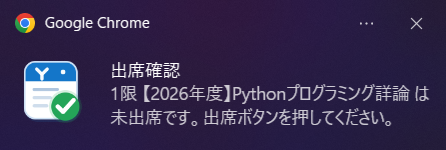
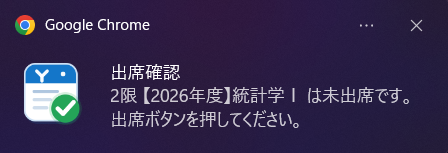
docs: update screenshots in README

diff --git a/README.md b/README.md
@@ -8,17 +8,17 @@
 
 ## スクリーンショット
 
-### 設定画面
-
-![設定画面](docs/images/options-settings.png)
-
-設定画面では、対象サイトの確認、時間割JSONの保存・削除、通知スケジュールの再作成・削除、ログの確認・削除ができます。
-
 ### Popup
 
 ![出席確認popup](docs/images/popup-attendance.png)
 
 popupでは、今日の日付、今日の授業一覧、授業時間、確認予定時刻、確認対象かどうか、直近の確認結果、次回確認予定を確認できます。手動で「今すぐ確認」も実行できます。
+
+### 設定画面
+
+![設定画面](docs/images/options-settings.png)
+
+設定画面では、対象サイトの確認、時間割JSONの保存・削除、通知スケジュールの再作成・削除、ログの確認・削除ができます。
 
 ### 通知
 